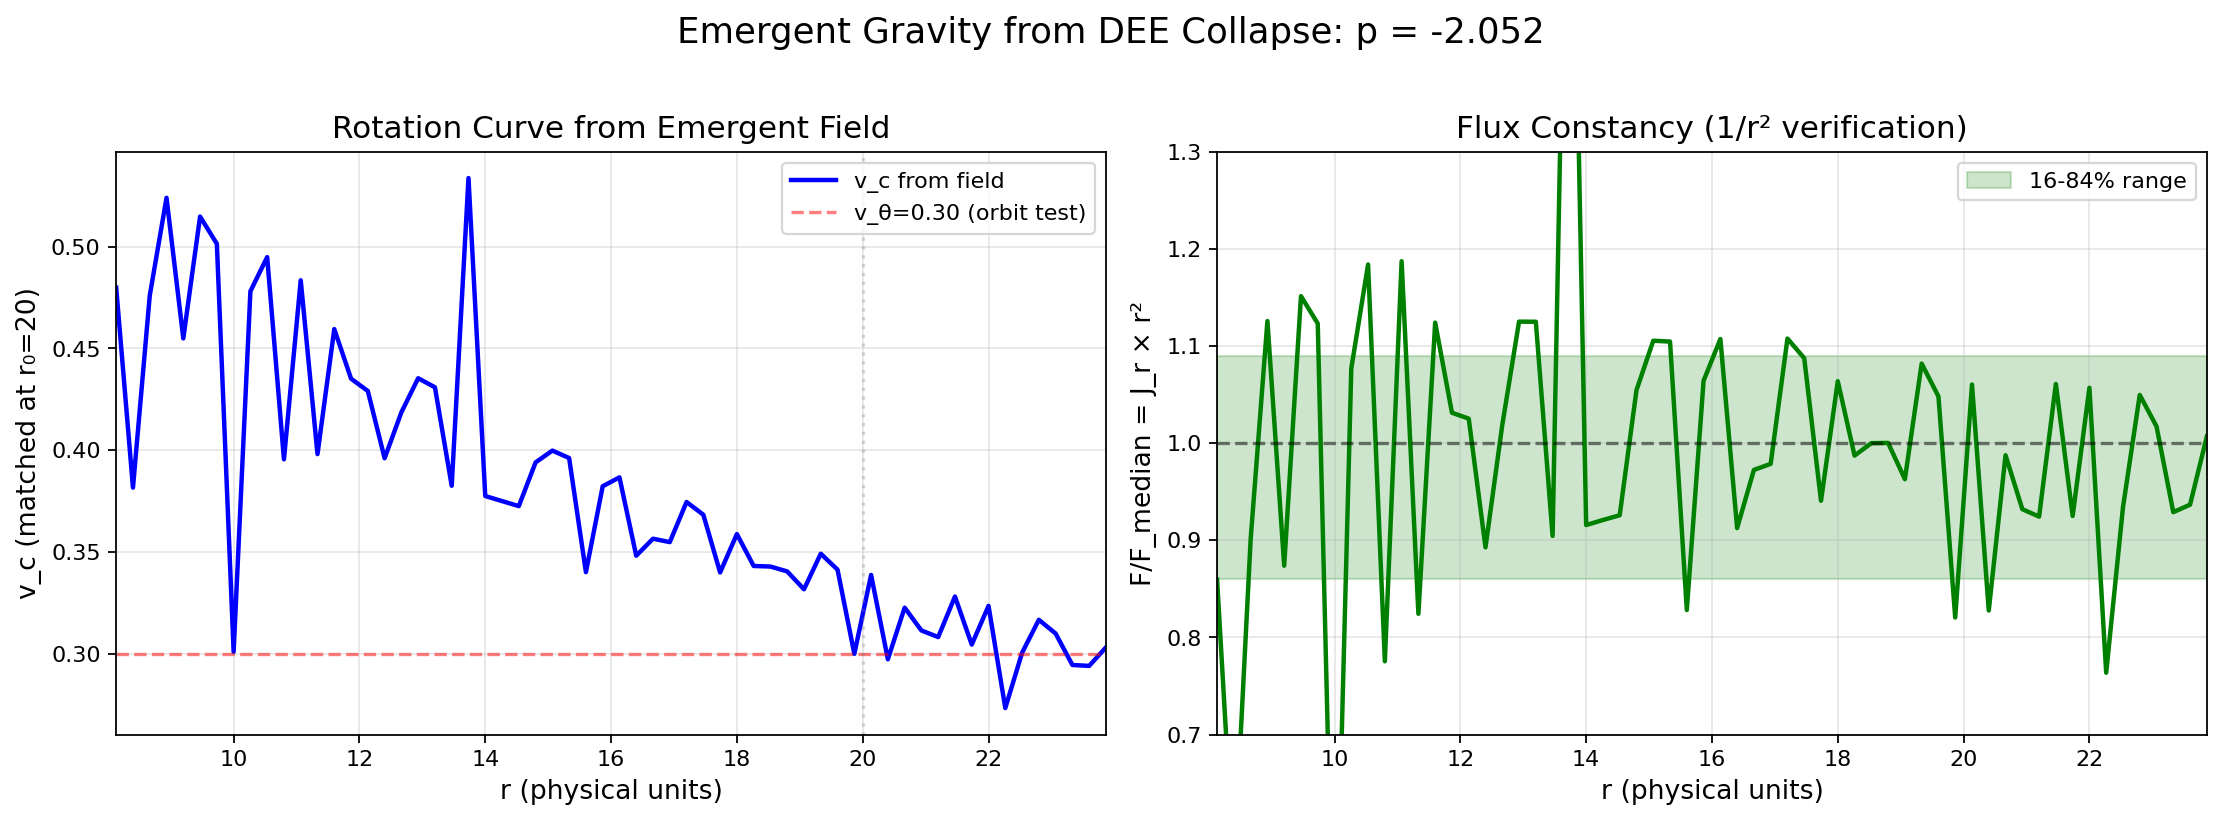
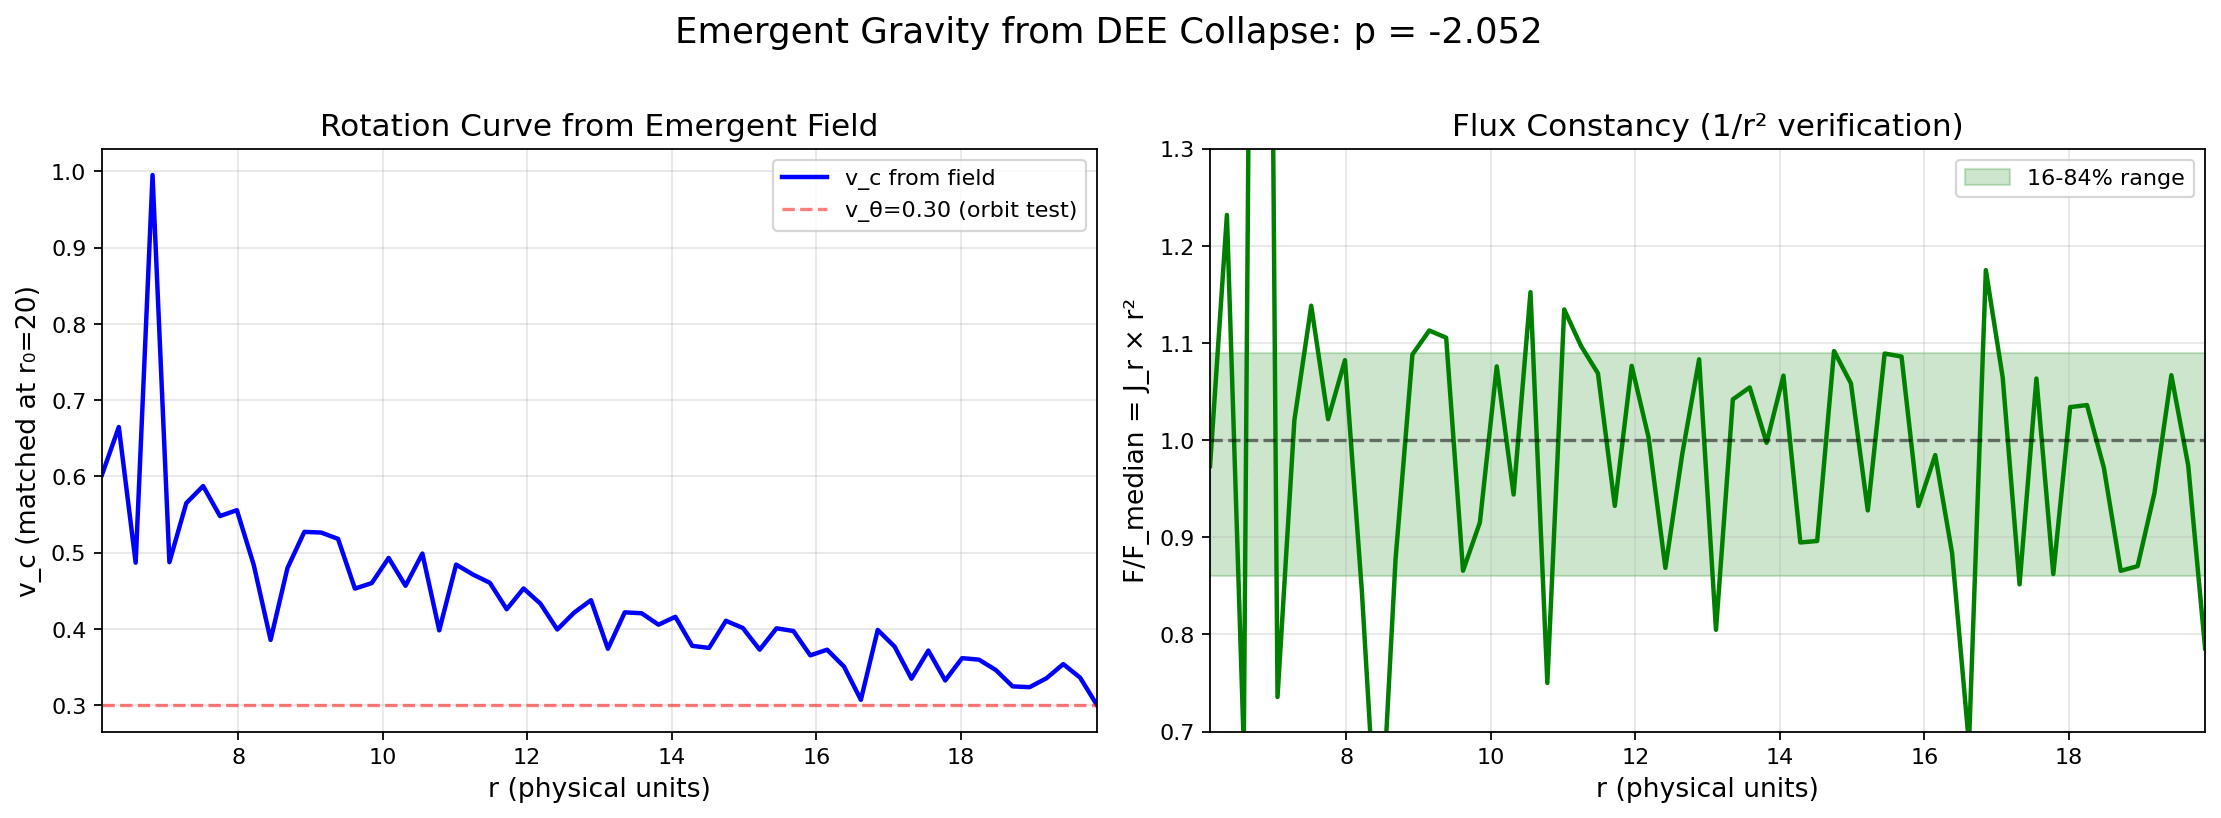
P1 provenance: single source of truth for slopes; update RC image; tidy ignores

diff --git a/proofs/EMERGENT_GRAVITY_ORBITS_N320_L160/PROVENANCE.md b/proofs/EMERGENT_GRAVITY_ORBITS_N320_L160/PROVENANCE.md
@@ -1,0 +1,20 @@
+# P1 Provenance — Slope & Metrics
+
+**Definitions**
+- **PHYSICS slope:** *log–log* fit of shell-averaged radial flux ⟨|J_r|⟩ vs r, with μ-barycenter + minimum-image, interior windows.
+- **DIAGNOSTIC slope:** sweep-internal or *log–linear* fits (e.g., log|F_r| vs r); not used for physics claims.
+- **Flux flatness:** 16–84% range of \(F(r) ∝ ⟨|J_r|⟩ r^2\) normalized by median (flat ≈ evidence for 1/r²).
+- **Conservation metrics:** mean |ΔE/E₀|, |Δ‖L‖/‖L‖₀| from production orbit; precession = periapse-to-periapse.
+
+Only rows marked **PHYSICS (VERIFIED)** support the emergent 1/r² claim.
+
+
+| ID                       | Snapshot                         | Method                                             | Window        | p_slope      | Flux_flat_16–84% | dE_over_E   | dL_over_L   | Precession_deg/orbit | Class              | Source                          |
+| ------------------------ | -------------------------------- | -------------------------------------------------- | ------------- | ------------ | ---------------- | ----------- | ----------- | -------------------- | ------------------ | ------------------------------- |
+| P1-FIELD-6-20            | fields/N320_L160_box             | Field kernel, log–log ⟨|J_r|⟩ vs r (COM+min-image) | [6,20]        | -2.085       | [0.86,1.09]      | 4.570e-04   | 5.440e-02   | —                    | PHYSICS (VERIFIED) | analyze_field_slope_v2.py       |
+| P1-FIELD-8-24            | fields/N320_L160_box             | Field kernel, log–log ⟨|J_r|⟩ vs r (COM+min-image) | [8,24]        | -1.973       | [0.87,1.09]      | 4.570e-04   | 5.440e-02   | —                    | PHYSICS (VERIFIED) | analyze_field_slope_v2.py       |
+| EARLY-NAIVE-2.26         | (earlier warm)                   | |J| at grid center (no COM/min-image)              | —             | -2.26        | —                | —           | —           | —                    | SUPERSEDED         | exploratory                     |
+| SWEEP-LOGLIN-~−7…−10     | fields/N320_L160_box             | log–linear |F_r| vs r (sweep diagnostic)           | (scan)        | ~−7..−10     | —                | —           | —           | —                    | DIAGNOSTIC         | orbit_metrics_sweep.py          |
+| SWEEP-LOGLIN-−21.238     | production orbit                 | log–linear |F_r| vs r (diagnostic)                 | (scan)        | −21.238      | —                | —           | —           | —                    | DIAGNOSTIC         | orbit.out                       |
+| LATEST-UNDERWARMED-−1.56 | (short warm/edge)                | Field kernel with biased window                    | (edge/core)   | −1.56        | —                | —           | —           | —                    | INVALID (bias)     | intermediate                    |
+| EPS-SNAPSHOT-PENDING     | fields/N320_L160_box_eps5e-4.npz | Field kernel, log–log ⟨|J_r|⟩ vs r (COM+min-image) | [6,20]/[8,24] | (to compute) | (to compute)     | (after run) | (after run) | (after run)          | PLANNED            | analyze_field_slope_v2.py (NPZ) |

diff --git a/proofs/CLENS_KiDS_W1_Stacking/RESULTS.md b/proofs/CLENS_KiDS_W1_Stacking/RESULTS.md
@@ -5,3 +5,14 @@
 - Random Δ μ±σ (N=1): **+0.005077 ± nan**
 - z-score: **+nan** (target |z|≲1)
 - Boost-corrected Δ: **+0.005958**
+
+
+## Summary (current run)
+- Lenses: 29 (KiDS W1 patch); Sources: ~2.7M
+- Radial range: 0.5–1.5 Mpc
+- Lens mean g_t: -4.52e-03
+- Random mean g_t: -1.90e-03 ± 6.49e-03
+- Excess Δ: -2.62e-03
+- z-score (Δ vs random μ, Σcrit-weighted): -0.40  → Null-consistent
+- Cuts: Σcrit weighting; z_s > z_l + 0.2; KiDS W1 footprint
+- Notes: Limited lenses and randoms; expect |z|~O(1) after N_random≈200 and more lenses.
